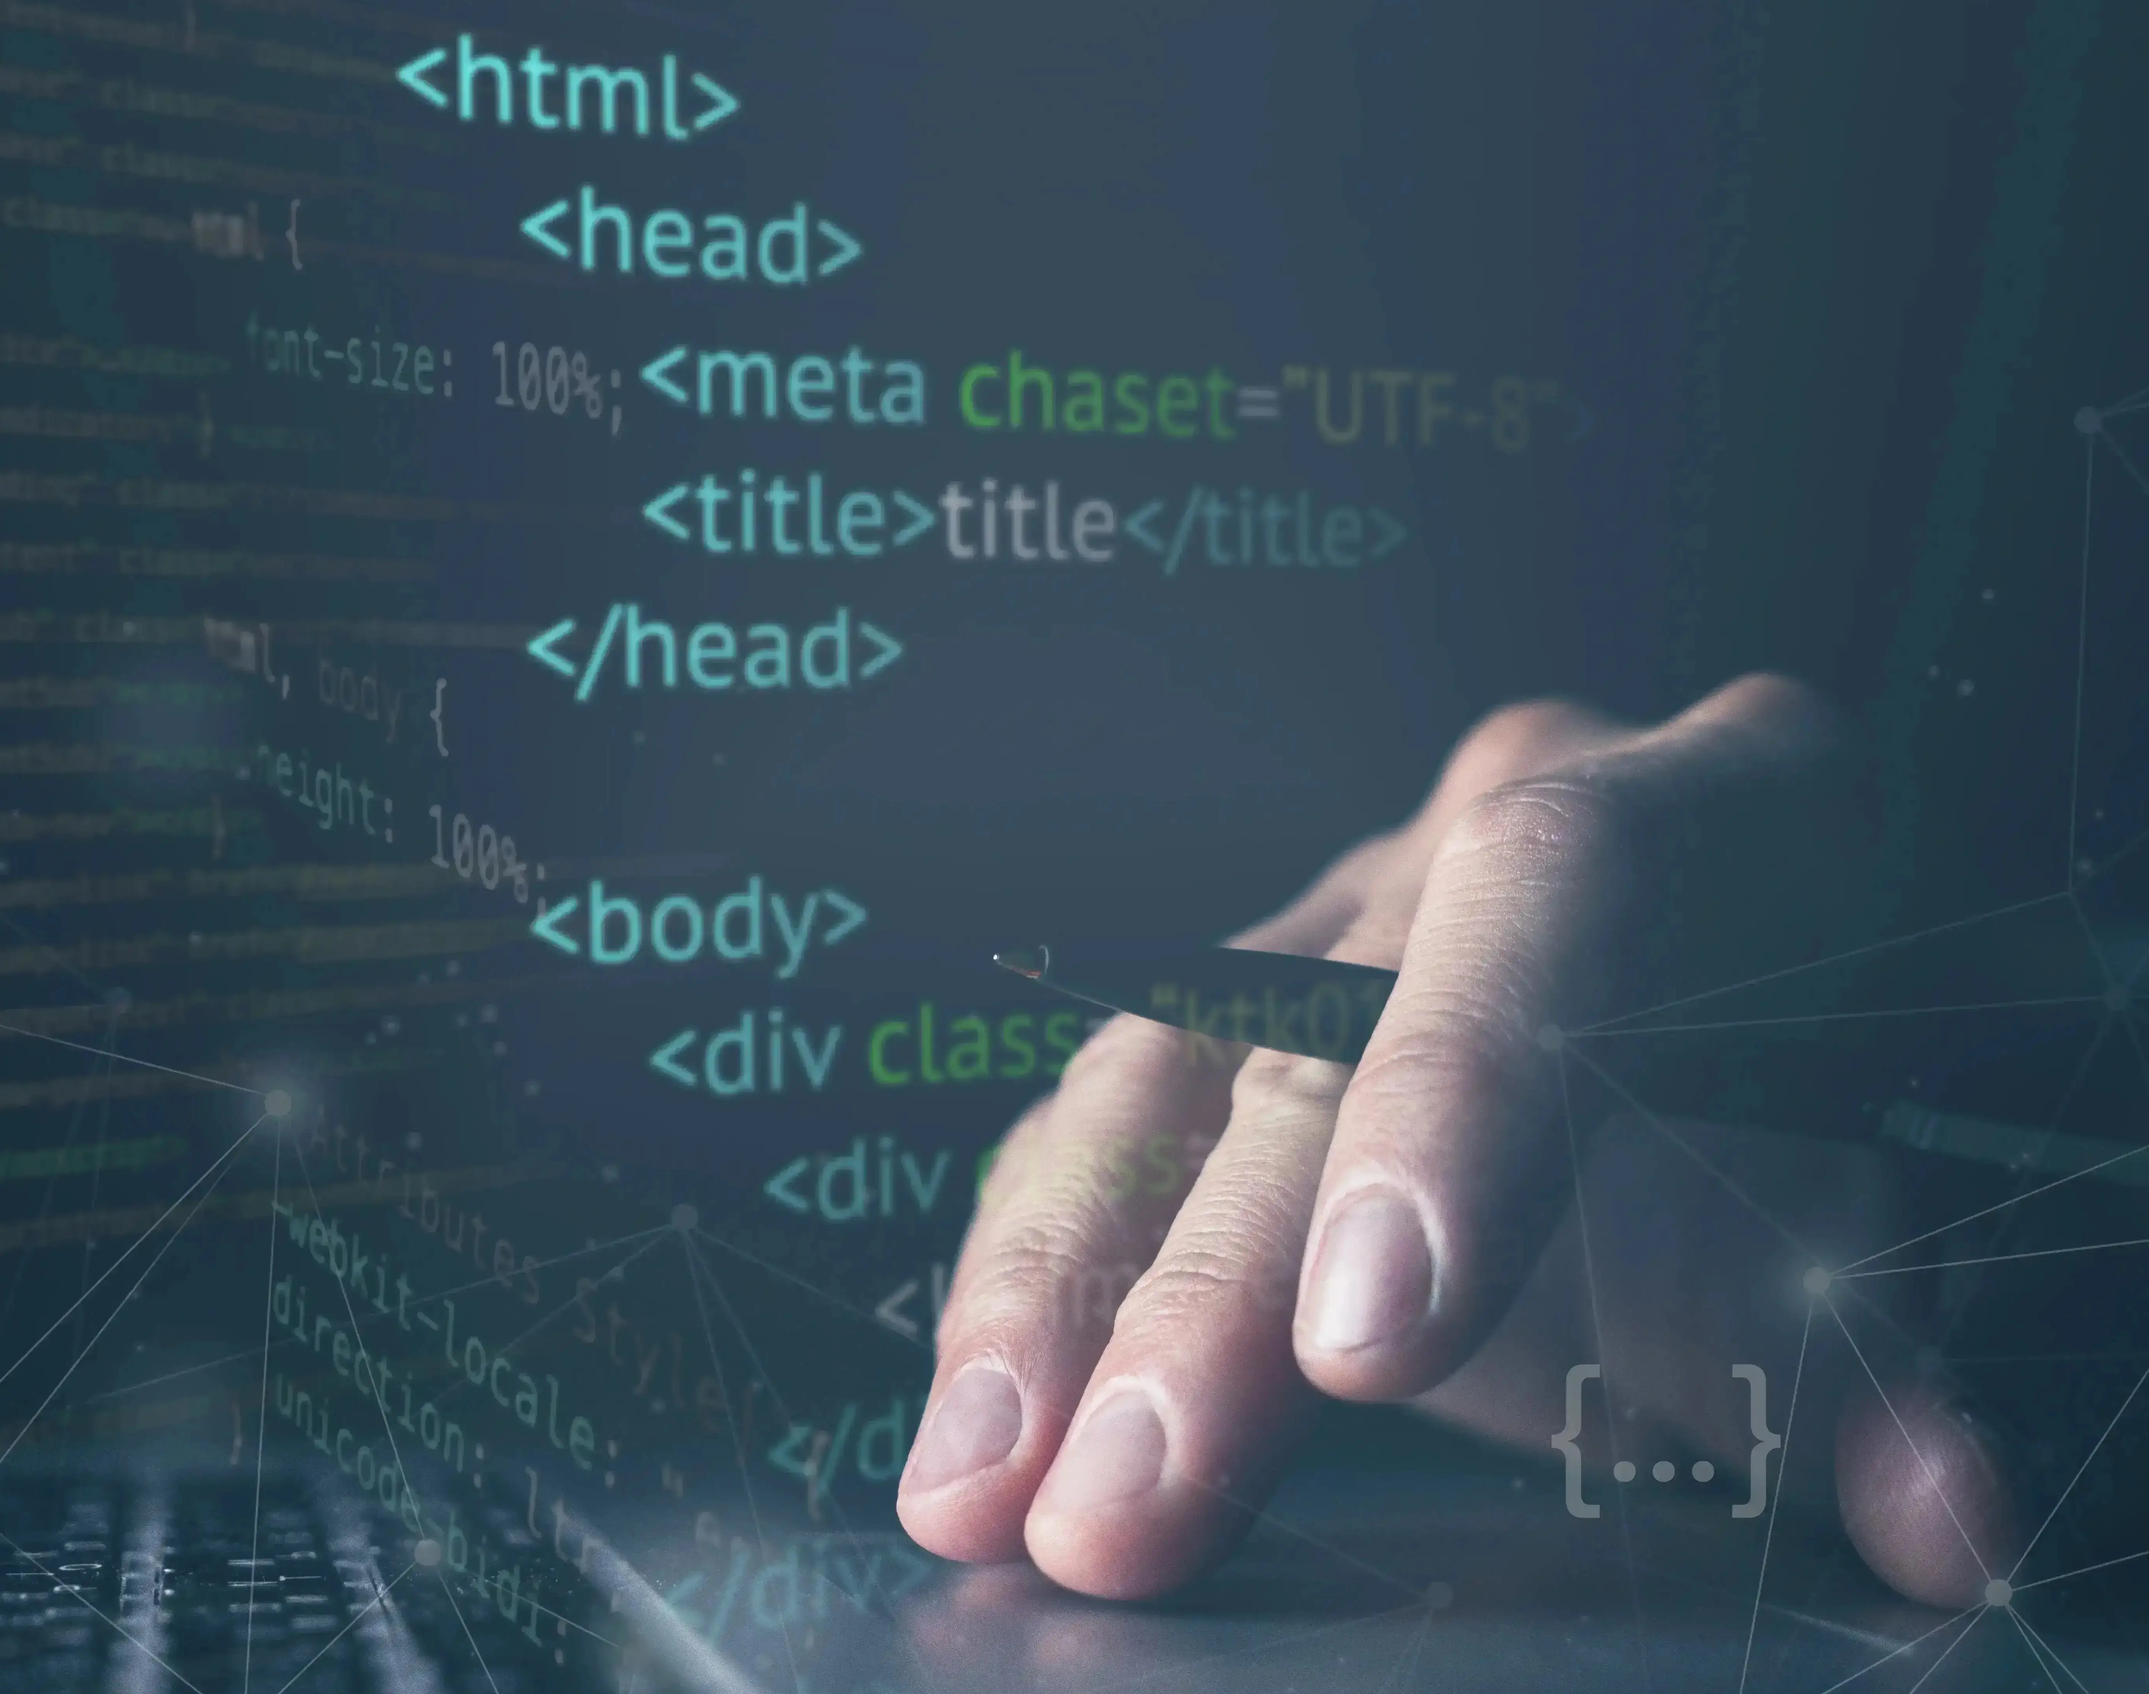
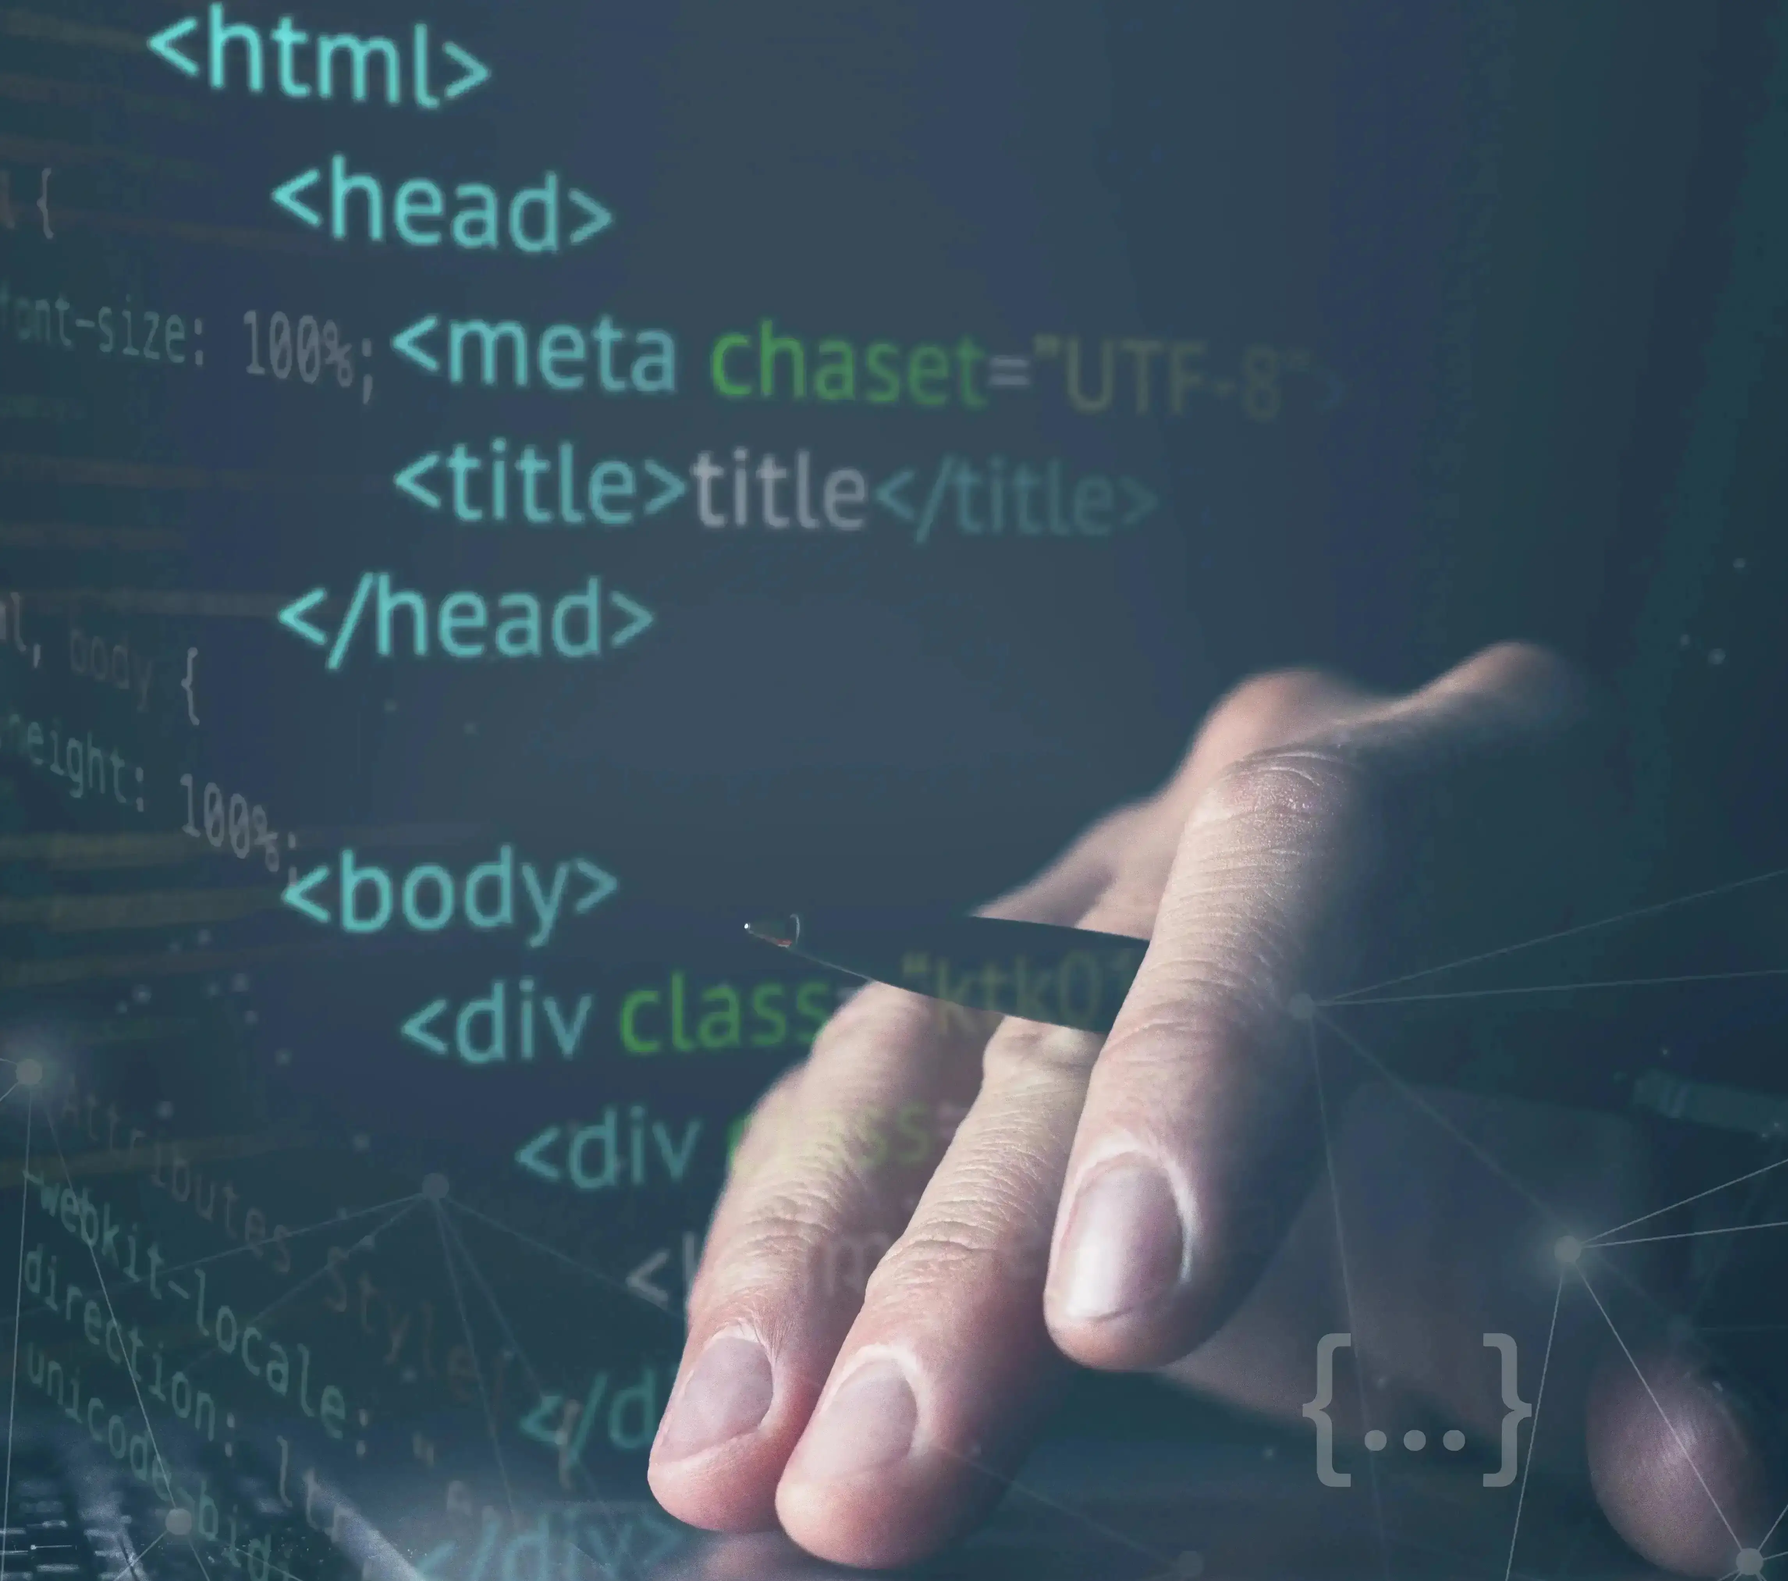
optimize imgs

diff --git a/Frontend/myportfolio/src/components/Presentation/Presentation.jsx b/Frontend/myportfolio/src/components/Presentation/Presentation.jsx
@@ -4,7 +4,6 @@ import ProfilePicture from "../../assets/images/ProfilePicture1.webp";
 const Presentation = () => {
   return (
     <section className="presentation" id="presentation">
-      <h2>Présentation</h2>
       <div className="presentation-content">
         <img
           src={ProfilePicture}
@@ -13,12 +12,13 @@ const Presentation = () => {
           loading="lazy"
         />
         <div className="text-content animate-slide-in">
+          <h2>À propos de moi</h2>
           <p>
-            Avec une Licence en Mathématiques et une formation en Développement
-            Web, je suis spécialisée dans la création de sites web dynamiques et
-            intuitifs. Mon parcours me permet de transformer des concepts
-            complexes en solutions simples et élégantes. Parcourez mon portfolio
-            pour découvrir mes projets et savoir-faire !
+            Passionnée par le développement web, je combine une Licence
+            Mathématiques et une formation en Développement Web pour créer des
+            sites dynamiques et fonctionnels. Mon approche consiste à rendre les
+            solutions complexes simples et accessibles. Découvrez mes projets et
+            mon savoir-faire à travers ce portfolio.
           </p>
         </div>
       </div>

diff --git a/Frontend/myportfolio/src/components/Presentation/Presentation.scss b/Frontend/myportfolio/src/components/Presentation/Presentation.scss
@@ -3,18 +3,15 @@
 .presentation {
   padding: 40px 20px;
   background: linear-gradient(135deg, #f0f4f8, #cfd8dc);
-  text-align: center;
   color: #333333;
   margin-bottom: 40px;
   gap: 40px;
-  h2 {
-    margin-bottom: 30px;
-  }
 
   .presentation-content {
+    margin-left: 50px;
     display: flex;
     align-items: center;
-    justify-content: center;
+    justify-content: flex-start;
     flex-wrap: wrap;
 
     .profile-picture {
@@ -30,6 +27,11 @@
       font-size: 18px;
       color: #555555;
       animation: slide-in 1.5s ease-in-out forwards;
+      text-align: center;
+      h2 {
+        margin-bottom: 30px;
+        text-align: center;
+      }
       @media (max-width: 768px) {
         font-size: 16px;
       }
@@ -39,11 +41,17 @@
       }
     }
   }
-
+  @media (max-width: 1024px) {
+    .presentation-content {
+      flex-direction: column;
+      text-align: center;
+    }
+  }
   @media (max-width: 768px) {
     .presentation-content {
       flex-direction: column;
       text-align: center;
+      margin-left: 20px;
 
       .profile-picture {
         margin-bottom: 20px;

diff --git a/Frontend/myportfolio/src/components/FormContact/Form.scss b/Frontend/myportfolio/src/components/FormContact/Form.scss
@@ -8,7 +8,7 @@
   align-items: center;
   box-sizing: border-box;
   background: linear-gradient(135deg, #f0f4f8, #cfd8dc);
-  margin: 0 200px 0 200px;
+  margin: 0 250px 0 250px;
   padding: 30px;
   @media (max-width: 1024px) {
     margin: 0 100px 0 100px;
@@ -20,9 +20,6 @@
   @media (max-width: 420px) {
     margin: 0 50px 0 50px;
     padding: 10px;
-  }
-  h2 {
-    margin-bottom: 20px;
   }
 
   @media (max-width: 768px) {
@@ -38,7 +35,7 @@
   font-weight: 400;
   line-height: 24px;
   letter-spacing: -0.01em;
-  width: 400px;
+  width: 500px;
 
   /* NORMAL */
   --fc-border-color: #eceff9;

diff --git a/Frontend/myportfolio/src/pages/Projet/Projet.scss b/Frontend/myportfolio/src/pages/Projet/Projet.scss
@@ -70,7 +70,7 @@
 }
 
 .skill-badge {
-  background-color: #e63946;
+  background-color: #af131e;
   color: white;
   padding: 10px 15px;
   border-radius: 20px;
@@ -94,7 +94,7 @@
 
 .project-link {
   display: inline-block;
-  background-color: #0077b6;
+  background-color: #76049f;
   color: white;
   padding: 12px 25px;
   border-radius: 25px;
@@ -113,7 +113,7 @@
 }
 
 .project-link:hover {
-  background-color: #0096c7;
+  background-color: #b0085c;
   transform: scale(1.05);
 }
 

diff --git a/Frontend/myportfolio/src/components/FormContact/Form.jsx b/Frontend/myportfolio/src/components/FormContact/Form.jsx
@@ -38,6 +38,7 @@ const BasicForm = () => {
   return (
     <section className="Contact-container" id="contact">
       <h2> Contact </h2>
+      <p> N'hésitez pas à me contacter pour plus d'informations </p>
       <form onSubmit={(e) => onSubmit(e)}>
         <div className="formcarry-container">
           <label htmlFor="name">Nom et Prénom</label>

diff --git a/Frontend/myportfolio/src/pages/Projet/Projet.jsx b/Frontend/myportfolio/src/pages/Projet/Projet.jsx
@@ -26,7 +26,7 @@ const Projetdetails = () => {
       </div>
       <Carousel images={projet.pictures} />
 
-      <h3>Technologies utilisées</h3>
+      <h3>Technologies utilisées : </h3>
       <ul className="project-skills">
         {projet.skills.map((skill, index) => (
           <li key={index} className="skill-badge">

diff --git a/Frontend/myportfolio/src/components/Réalisations/Réalisations.scss b/Frontend/myportfolio/src/components/Réalisations/Réalisations.scss
@@ -9,7 +9,7 @@
   margin: 40px 30px;
 
   h2 {
-    margin-bottom: 20px;
+    margin-bottom: 40px;
 
     @media (max-width: 768px) {
       font-size: 24px;
